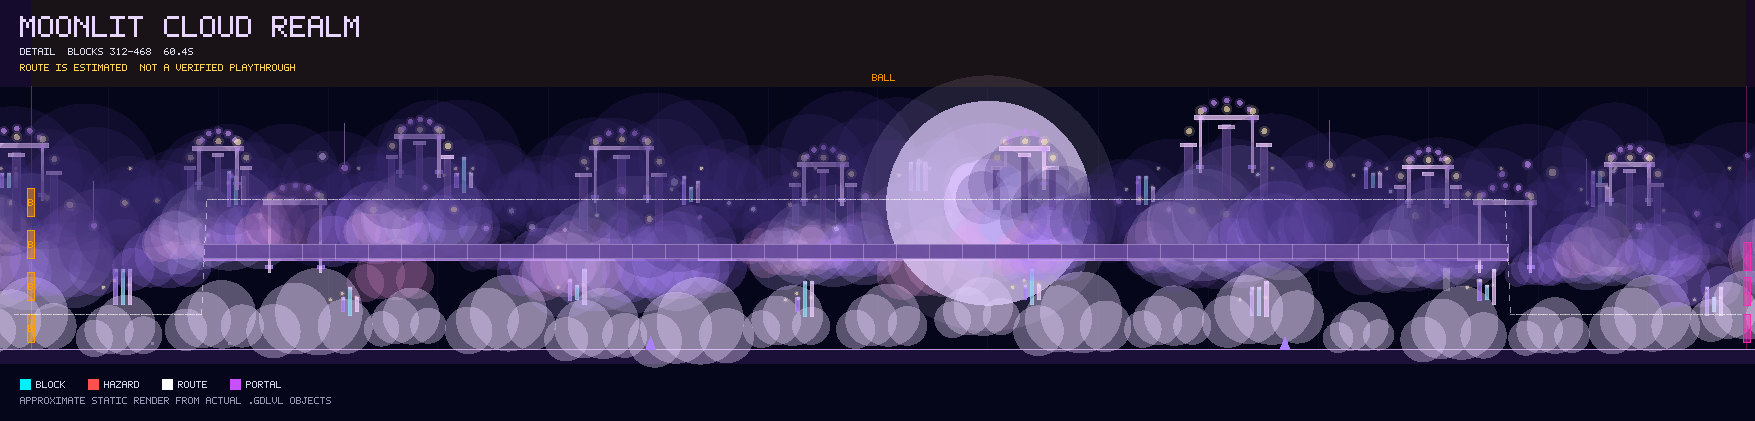
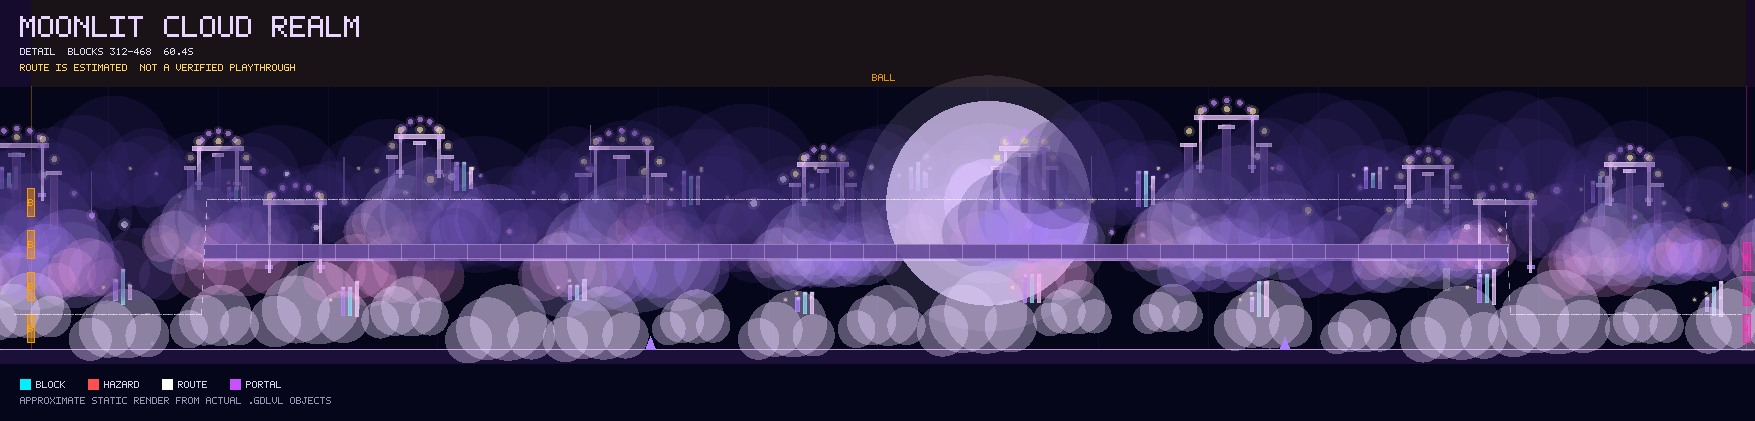
fix(moonlit): remove lethal cube block faces, keep reachable orb chain

diff --git a/gdgen/moonlit.py b/gdgen/moonlit.py
@@ -168,53 +168,28 @@ def _at(level: Level, x: float, y: float, mode: str) -> None:
     # No extra speed portal: all 4 sections use normal speed.
 
 
-# Cube opening: a short stair of wide cloud ledges, then yellow orbs nestled
-# in decorative clouds, then a descending cloud stair into the ship portal.
-# Rises stay at 30 units and gaps at ~90 units, well inside the normal Cube
-# jump arc. Falls land on the ordinary ground, so a missed orb is survivable.
-CUBE_STEPS = (
-    (330, 570, 30), (660, 900, 60), (990, 1230, 90), (1320, 1560, 120),
-    (1650, 1890, 150), (1980, 2220, 180), (2310, 2550, 210), (2640, 2880, 240),
-)
-CUBE_ORBS = ((2940, 280), (3060, 310), (3180, 335))
-CUBE_DESCENT = (
-    (3290, 3560, 320), (3560, 3830, 260), (3830, 4100, 200),
-    (4100, 4370, 140), (4370, 4560, 80),
-)
-# Ground hazards live under the cloud path: the intended platform line stays
-# clean, but a missed jump is punished. Spacing >= 600 keeps it readable.
-CUBE_SPIKES = (945, 1605, 2265, 2990, 3590, 4220)
-
-
-def _cloud_platform(level: Level, x0: float, x1: float, top: float,
-                    rng: random.Random) -> None:
-    """Solid wide ledge, 30 units thick, with cosmetic cloud puffs behind it."""
-    _solid_strip(level, x0, x1, top - 30, top, 1, step=120, glow="top")
-    for cx in (x0 + 34, (x0 + x1) / 2, x1 - 34):
-        _cloud(level, cx, top + 6, rng.uniform(0.75, 1.05),
-               rng.choice((1, 2, 3)), rng, z=-2)
+# Cube opening: earlier thin solid ledges produced lethal side faces and made
+# the section unfair, so this section now creates NO solid block at all.
+# Yellow orbs nested in decorative clouds form an optional short ascent; a
+# missed orb simply drops the player back onto the ordinary open ground.
+CUBE_ORBS = ((520, 75), (620, 115), (720, 155), (820, 195), (920, 235))
+# Ground hazards, spaced >= 600 so each one stays readable.
+CUBE_SPIKES = (1350, 1950, 2550, 3150, 3750, 4350)
 
 
 def _cube(level: Level, start: float, end: float, rng: random.Random) -> None:
-    # Ascending cloud stair: jump from ledge to ledge, each one 30 units up.
-    for x0, x1, top in CUBE_STEPS:
-        if x1 < end - 300:
-            _cloud_platform(level, x0, x1, top, rng)
-    # Yellow orbs hidden inside cloud puffs continue the climb into the sky.
+    # Deliberately no BLOCK objects here: a mistimed jump must never end on a
+    # block face. The orbs are the only airborne gameplay in the cube section.
     for ox, oy in CUBE_ORBS:
-        _cloud(level, ox - 22, oy - 10, 1.05, 1, rng, z=-2)
-        _cloud(level, ox + 24, oy + 2, 0.90, 2, rng, z=-2)
-        _cloud(level, ox - 2, oy + 20, 0.80, 3, rng, z=-3)
+        _cloud(level, ox - 20, oy - 12, 1.05, 1, rng, z=-2)
+        _cloud(level, ox + 22, oy - 2, 0.90, 2, rng, z=-2)
+        _cloud(level, ox - 4, oy + 16, 0.80, 3, rng, z=-3)
         level.objects.append(GDObject(ORB_YELLOW, ox, oy, {21: 6}))
-    # Descending cloud stair; adjacent steps let the player simply drop down.
-    for x0, x1, top in CUBE_DESCENT:
-        if x1 < end - 60:
-            _cloud_platform(level, x0, x1, top, rng)
-    # Ground spikes beneath the route, spaced so each one is readable.
     for sx in CUBE_SPIKES:
         if sx < end - 120:
             level.objects.append(make_spike(sx, 15, channel=3))
-    # The ordinary ground at y=0 stays traversable so a fall is never a lock.
+    # The ordinary ground at y=0 stays completely open; the ship portal is
+    # reachable on foot, so falling from the orb chain is never a dead end.
 
 
 def _glow_edge(level: Level, x0: float, x1: float, y: float, side: str,

diff --git a/tests/test_moonlit.py b/tests/test_moonlit.py
@@ -51,22 +51,19 @@ class MoonlitTests(unittest.TestCase):
         self.assertTrue(all(b - a <= 90
                             for a, b in zip(wave_portals, wave_portals[1:])))
 
-    def test_cube_cloud_ascent(self):
+    def test_cube_has_no_lethal_cloud_ledges(self):
         cube = self.level.sections[0]
-        blocks = [o for o in self.level.objects
-                  if o.id == BLOCK and cube["start"] <= o.x <= cube["end"]]
-        tops = sorted({round(o.y + 15 * o.scale_y) for o in blocks})
-        # Ascending cloud stair plus descending stair back to the ship portal.
-        self.assertGreaterEqual(len(tops), 8)
-        self.assertGreaterEqual(tops[3], 90)
-        self.assertLessEqual(max(tops), 340)
+        cube_blocks = [o for o in self.level.objects
+                       if o.id == BLOCK and cube["start"] <= o.x <= cube["end"]]
+        # Solid ledges caused unavoidable block-face deaths; the cube must
+        # stay completely free of solid geometry.
+        self.assertEqual(cube_blocks, [])
         orbs = [o for o in self.level.objects
                 if o.id == ORB_YELLOW and cube["start"] <= o.x <= cube["end"]]
-        self.assertGreaterEqual(len(orbs), 3)
-        self.assertLess(max(o.y for o in orbs), 360)
-        # The player must be able to fall off the last ledge onto open ground.
-        last_x = max(o.x + 15 * o.scale_x for o in blocks)
-        self.assertLess(last_x, cube["end"] - 60)
+        self.assertGreaterEqual(len(orbs), 4)
+        # The first orb must be reachable from an ordinary ground jump.
+        self.assertLessEqual(min(o.y for o in orbs), 90)
+        self.assertLessEqual(max(o.y for o in orbs), 260)
 
     def test_wave_is_a_wide_gentle_zigzag(self):
         wave = self.level.sections[3]

diff --git a/PROGRESS.md b/PROGRESS.md
@@ -195,12 +195,12 @@
 
 ## Этап 6 — мягкий Wave, стопки порталов и валидация триггеров (2026-11-06)
 
-- Текущая сгенерированная сборка: **2906 объектов**, 312 блоков, 8 одиночных шипов, 10 порталов режима, 60.1 секунды. Прежняя версия — 2795 объектов.
-- Cube-старт стал полноценным подъёмом: восемь облачных уступов по +30 units (разрыв ~90), затем три жёлтых orb, вложенных в декоративные облака, и спуск по облачной лестнице к Ship-порталу. Шесть шипов стоят на земле под маршрутом с интервалом >= 600; падение возвращает на обычный пол. Ship-портал продублирован по высоте (45/135/225), чтобы принять игрока с любого уступа.
+- Текущая сгенерированная сборка: **2815 объектов**, 282 блока, 8 одиночных шипов, 10 порталов режима, 60.1 секунды. Прежняя версия — 2795 объектов.
+- Cube-старт намеренно **не содержит ни одного твёрдого блока**: тонкие облачные уступы давали смертельные боковые грани, из-за которых уровень было невозможно пройти. Вместо них — цепочка из пяти жёлтых orb в декоративных облачных клубах (y=75…235), достижимых с обычного прыжка; промах просто возвращает игрока на открытый пол. Шесть одиночных шипов стоят на земле с интервалом >= 600. Ship-портал продублирован по высоте (45/135/225) как безопасный fallback.
 - Wave переработан: коридор высотой **280 units** после плоской входной полки (420 units) плавно смещается на 48 units с периодом ~1320 units (~4.2 с при normal speed). Это мягкий зигзаг для диагонального управления, а не узкие щели. Маршрут-эвристика следует центру коридора.
 - Платформы перекрашены в бело-лиловый и получили тонкую светящуюся **нетвёрдую** кромку (декоративная панель 1904 в B4); она не участвует в коллизии.
 - Переходы стали безопаснее: 4 перекрывающихся Ball-портала (y=45/135/225/315) и 3 Wave-портала (y=45/125/200) на одной X-координате; портал нормальной гравитации перед Wave опущен на y=150, чтобы не пересекать потолочный блок.
 - Валидатор дополнен: цель Group ID каждого триггера должна существовать (ошибка), Color ID вне kS38 — предупреждение, портал не должен быть встроен в твёрдый блок (ошибка), после портала нужен участок >=150 units без шипов (предупреждение), дублирующиеся порталы одного режима — ошибка.
 - Маршрут-эвристика ship/ball/wave следует центру свободного коридора — это устранило ложное предупреждение о расхождении в Wave.
-- Регрессионные тесты: 56 тестов, включая проверку ширины/зигзага Wave, отсутствия вертикальных щелей между порталами, отсутствия твёрдых объектов в декоративных группах 201/202 и отклонение триггера с несуществующей целью.
+- Регрессионные тесты: 57 тестов, включая проверку отсутствия твёрдых блоков в Cube, достижимости orb-цепочки, ширины/зигзага Wave, отсутствия вертикальных щелей между порталами, отсутствия твёрдых объектов в декоративных группах 201/202 и отклонение триггера с несуществующей целью.
 - **По-прежнему не проверено в игре:** фактическое поведение Wave, столкновения, срабатывание триггеров и внешний вид зигзага. Метка Easy — цель дизайна.

diff --git a/AGENTS.md b/AGENTS.md
@@ -16,8 +16,8 @@
 ## Реализовано после создания исходного каталога: Moonlit Cloud Kingdom (2026-11-06)
 
 - Реальный новый пресет `moonlit-cloud-kingdom` в `gdgen/moonlit.py`.
-- Обновление: насыщенный облачный мир (**2906 объектов**), 8 одиночных шипов; Ship использует `ship_corridor_bounds()` с плавной S-траекторией и проходом >=180 units. Тест проверяет, что постоянная высота полёта не проходит весь участок. Декор расположен в Z Layer B4 (`24:-3`). Это геометрическая эвристика, НЕ доказательство проходимости в игре.
-- Cube-старт переработан в подъём: восемь облачных уступов по +30 units, затем три жёлтых orb в облачных клубах и спуск по облачной лестнице к Ship-порталу. Уступы держат прыжок внутри обычной дуги Cube; падение возвращает на пол, а не блокирует прохождение. Шесть одиночных шипов стоят на земле под маршрутом (интервал >= 600).
+- Обновление: насыщенный облачный мир (**2815 объектов**), 8 одиночных шипов; Ship использует `ship_corridor_bounds()` с плавной S-траекторией и проходом >=180 units. Тест проверяет, что постоянная высота полёта не проходит весь участок. Декор расположен в Z Layer B4 (`24:-3`). Это геометрическая эвристика, НЕ доказательство проходимости в игре.
+- Cube-старт намеренно **не содержит твёрдых блоков**: тонкие платформы давали смертельные боковые грани. Вместо них — пять жёлтых orb в облачных клубах (от y=75 до y=235), достижимых с обычного прыжка; промах возвращает на открытый пол. Шесть одиночных шипов стоят на земле с интервалом >= 600.
 - Генерируются четыре секции Cube/Ship/Ball/Wave с упрощённым геймплеем.
   Ball в этом пресете — коридор с потолком, гравитацией и редкими
   одиночными шипами; Wave — широкий (280 units) коридор, который плавно
